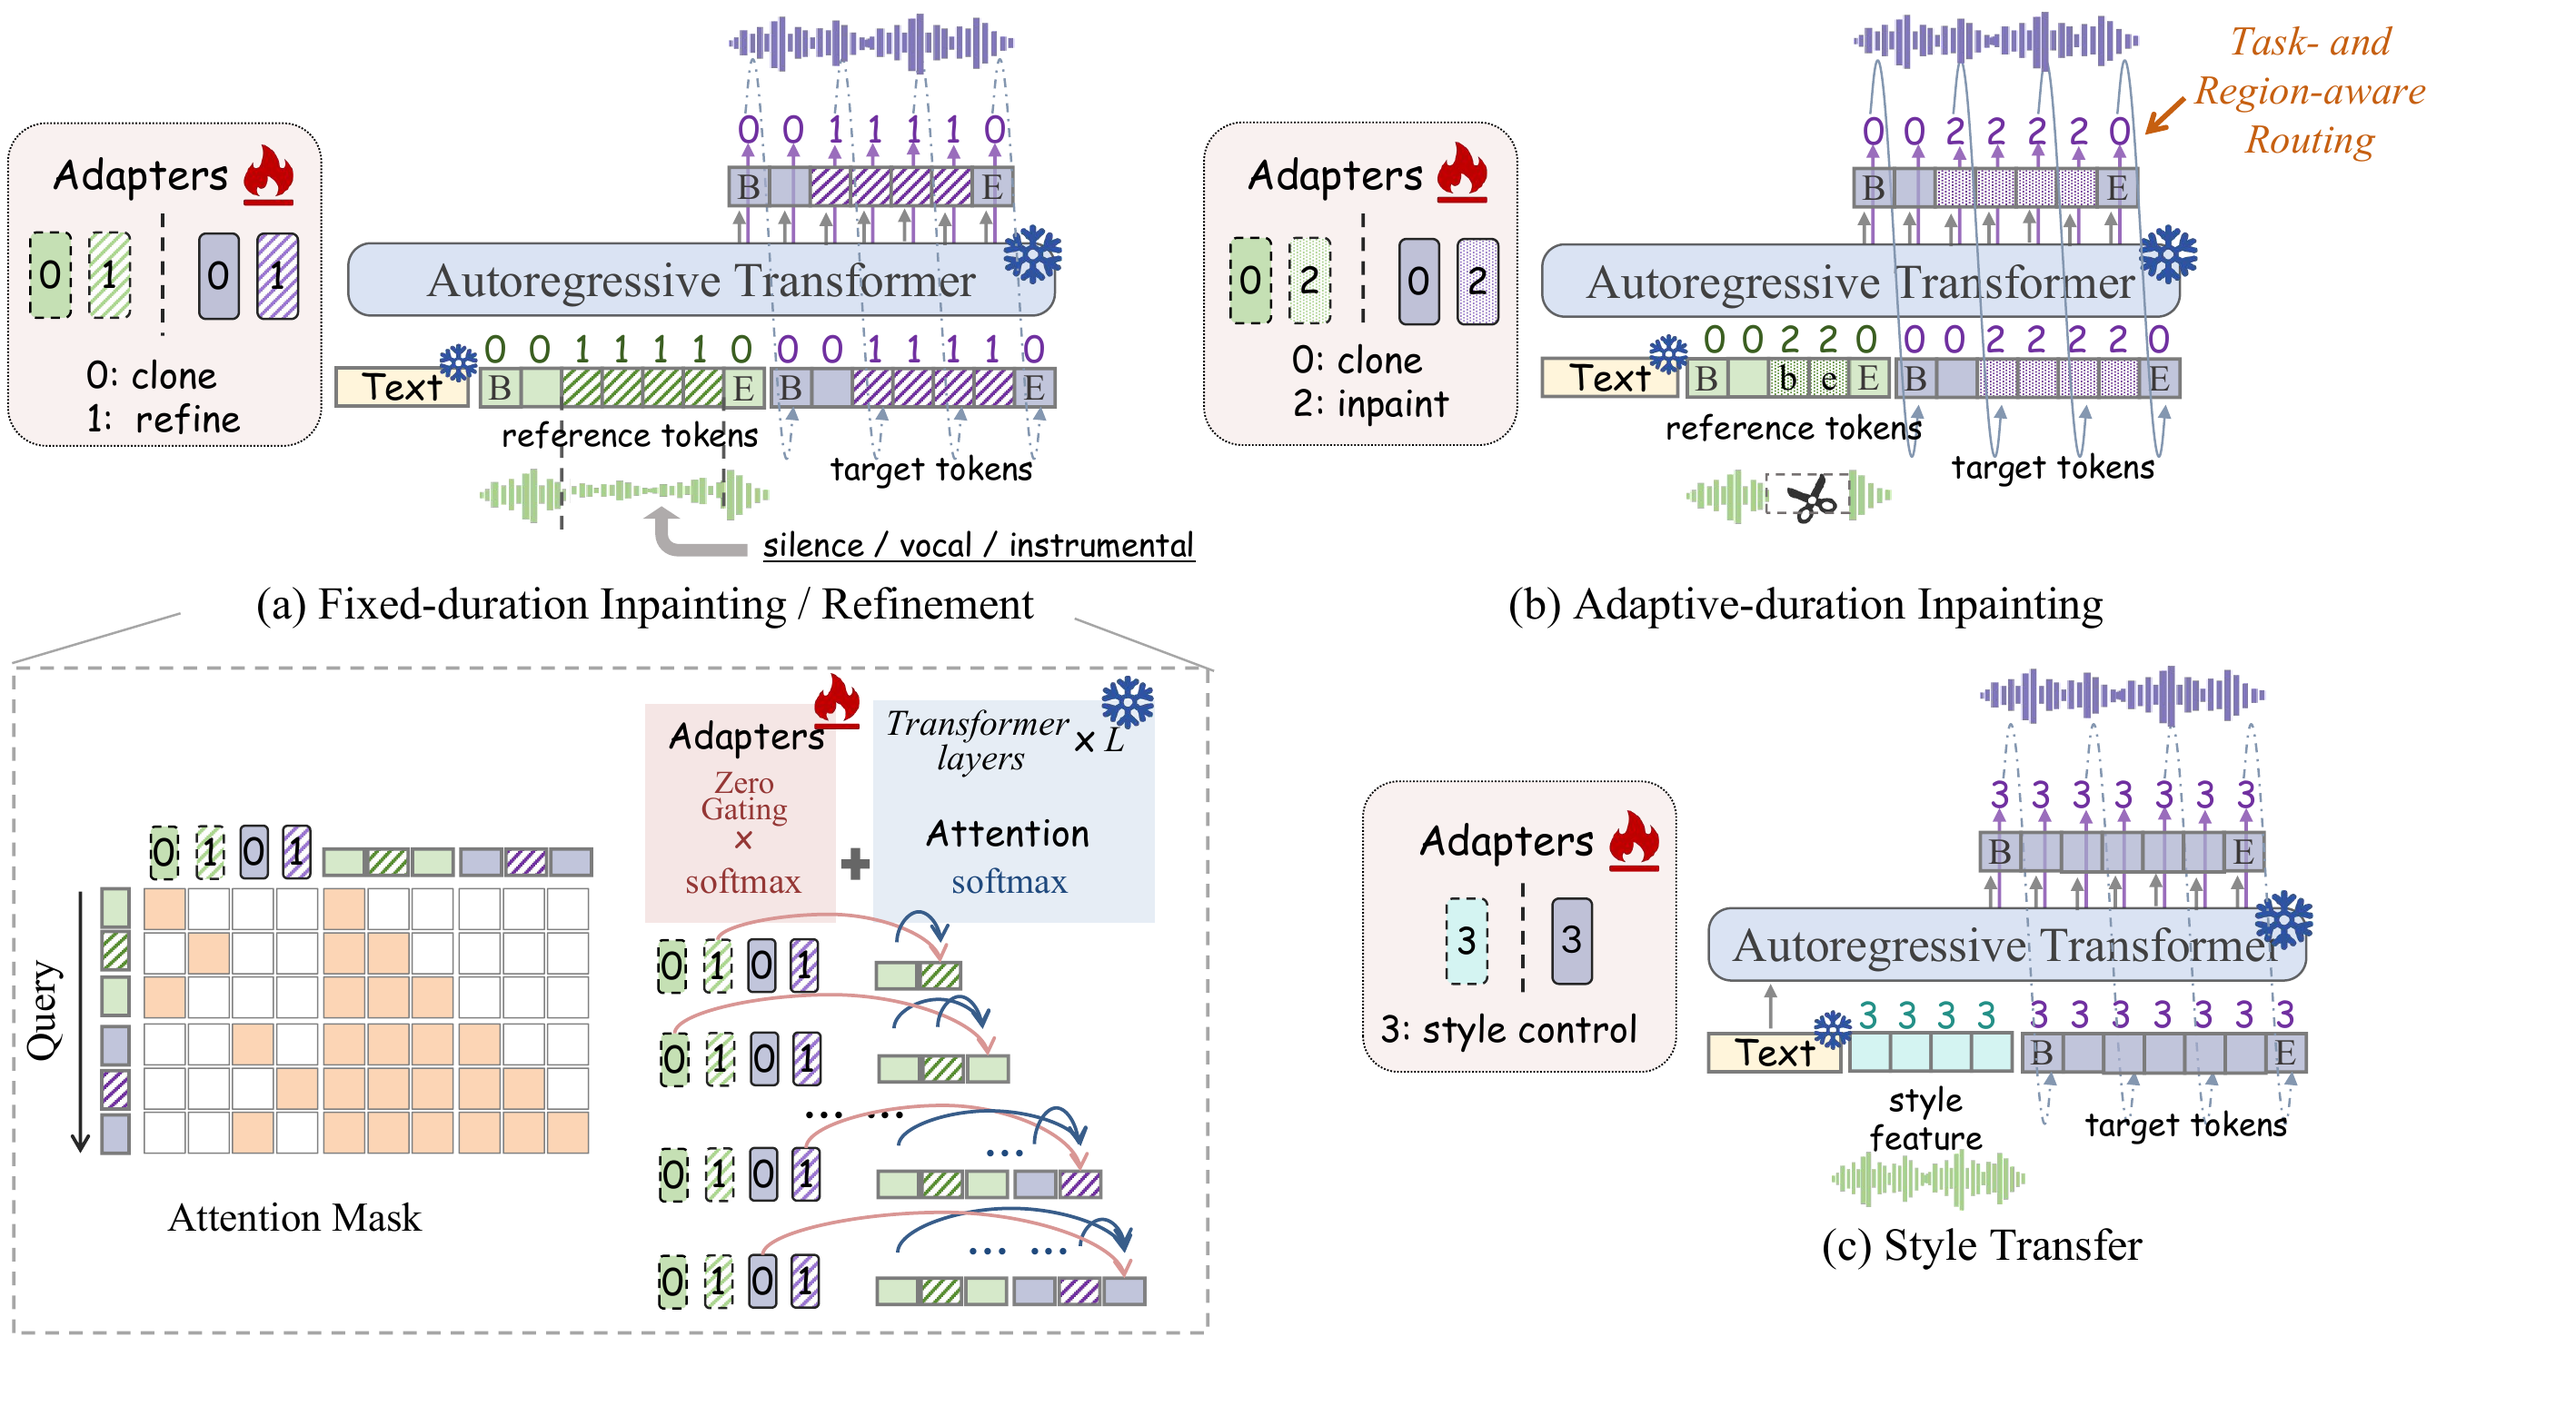
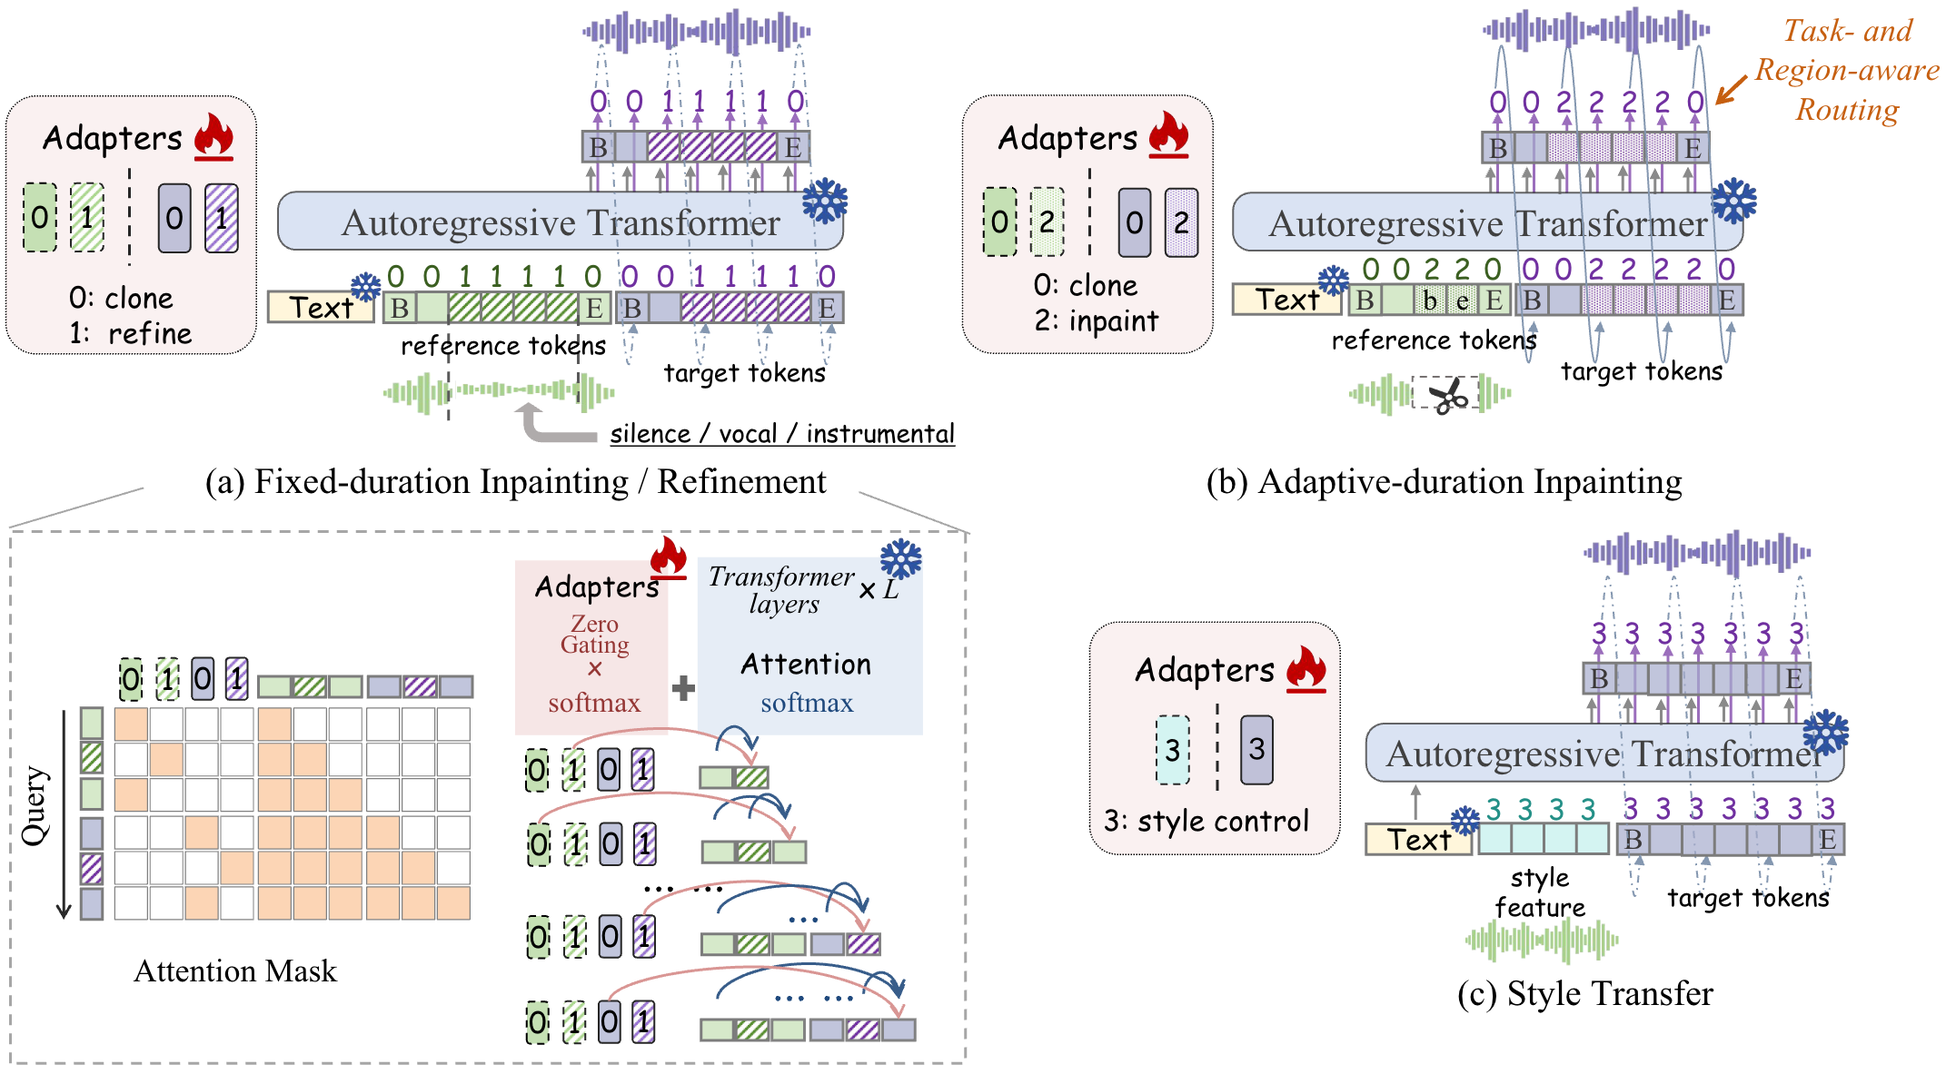
Refine research profile and correct publication images

Changed region(s): [[0.0, 0.0, 0.4979, 0.9738], [0.4668, 0.0, 0.9958, 0.9434], [0.0, 0.4565, 0.0622, 0.4869]]

diff --git a/_pages/about.md b/_pages/about.md
@@ -29,17 +29,18 @@ redirect_from:
 
 Hi👋 nice to meet you!
 
-<br>I am a final-year Ph.D. candidate in the joint Ph.D. program between <a href="https://www.shlab.org.cn/">Shanghai AI Laboratory</a> and <a href="https://www.buaa.edu.cn/">Beihang University</a>, supervised by <a href="http://dahua.site/">Prof. Dahua Lin</a>.
-I am currently a Research Intern on Alibaba's Qwen team. My work focuses on agentic multimodal systems and audio-visual understanding and reasoning, with additional contributions to Qwen-Music.
-Prior to that, I obtained my Bachelor’s degree in 2021 and completed two years of master’s study at Beihang University under the supervision of <a href="https://scholar.google.com/citations?user=QVHvhM4AAAAJ">Prof. Leilei Sun</a>, where my research focused on spatio-temporal data mining and time series analysis.
+<br>I am a final-year Ph.D. candidate in the joint Ph.D. program between <a href="https://www.shlab.org.cn/">Shanghai AI Laboratory</a> and <a href="https://www.buaa.edu.cn/">Beihang University</a>, supervised by <a href="http://dahua.site/">Prof. Dahua Lin</a>. My doctoral research focuses on multimodal foundation models, with an emphasis on audio-visual understanding and generation.
+Before starting my Ph.D., I received my Bachelor’s degree from Beihang University in 2021 and completed two years of master’s study there under the supervision of <a href="https://dbw-buaa.github.io/">Prof. Bowen Du</a>, working on representation learning and forecasting for multivariate time series.
+
+<br><br>I am currently a Research Intern with Alibaba's Qwen Omni team and a core contributor to Video-to-Skill and Qwen-Music. My work spans agentic MLLMs, audio-visual understanding, and audio generation, from learning transferable multimodal skills from human demonstrations and instructional videos to training and post-training large-scale autoregressive music models.
 
 <br><br>My current research interests are:
-<br><b>◆ Agentic Multimodal LLMs: </b><i>multimodal agents, computer-use agents, tool/skill learning, agentic data generation, and evaluation.</i>
-<br><b>◆ Audio-Visual Understanding and Reasoning: </b><i>audio-visual instruction following, spatio-temporal reasoning, audio geo-localization, and robust multimodal evaluation.</i>
-<br><b>◆ Audio Generation: </b><i>text-to-song generation, controllable song generation and editing, and music generation systems.</i>
+<br><b>◆ Agentic MLLMs: </b><i>multimodal agents, computer-use agents, skill learning from demonstrations, agent harnesses and plugins, and scalable rollout data.</i>
+<br><b>◆ Audio-Visual Understanding: </b><i>audio-visual instruction following, deep spatio-temporal reasoning, cross-modal alignment, and reliable evaluation.</i>
+<br><b>◆ Audio Generation: </b><i>large-scale autoregressive music models, audio tokenization, controllable song generation and editing, and post-training.</i>
 
 <br><br>
-<font style="color: #bf0000"><b>I am on the job market and seeking Research Scientist opportunities centered on agentic MLLMs, audio-visual understanding and reasoning, and multimodal agents.</b></font>
+<font style="color: #bf0000"><b>I am on the job market and seeking Research Scientist opportunities in agentic MLLMs, audio-visual understanding, and audio generation.</b></font>
 <br><font style="color: #bf0000"><b>I am always open to research discussions and collaborations.</b></font>
 <br><b>Email:</b>&nbsp; <span style="background: #d6eef8">liuzihan@buaa.edu.cn</span>&emsp;&emsp; <b>WeChat:</b>&nbsp; <span style="background: #d6eef8">ZinniaL19</span>
 </div>
@@ -57,7 +58,7 @@ Prior to that, I obtained my Bachelor’s degree in 2021 and completed two years
   </div>
   <div class="focus-item">
     <b>Audio Generation Systems</b>
-    <span>Prior and ongoing work on song generation and editing, tokenizer and model training, and post-training for Qwen-Music.</span>
+    <span>Developing music generation systems through tokenizer and model training, controllable song generation and editing, and post-training for Qwen-Music.</span>
   </div>
 </div>
 
@@ -106,7 +107,7 @@ Prior to that, I obtained my Bachelor’s degree in 2021 and completed two years
 <span class='anchor' id='audio-generation'></span>
 ## Audio and Music Generation
 
-<div class='paper-box'><div class='paper-box-image'><div><div class="badge">arXiv 2026</div><img src='images/qwen_music_framework.jpg' alt="Qwen-Music inference framework" width="100%"></div></div>
+<div class='paper-box'><div class='paper-box-image'><div><div class="badge">arXiv 2026</div><img src='images/qwen_music_framework.png' alt="Qwen-Music inference framework" width="100%"></div></div>
 <div class='paper-box-text' markdown="1">
 [Qwen-Music Technical Report](https://arxiv.org/abs/2607.11699) ***[arXiv 2026]***
 
@@ -164,7 +165,7 @@ Shuangrui Ding<sup>*</sup>, <b>Zihan Liu<sup>*</sup></b>, Xiaoyi Dong, Pan Zhang
 
 ## Time Series Modeling
 
-<div class='paper-box'><div class='paper-box-image'><div><div class="badge">KBS 2025</div><img src='images/kdd2022_esg.png' alt="Evolving graph structure learning" width="100%"></div></div>
+<div class='paper-box'><div class='paper-box-image'><div><div class="badge">KBS 2025</div><img src='images/kbs2025_egc.jpg' alt="EGC framework with static and evolutionary graph structure learners" width="100%"></div></div>
 <div class='paper-box-text' markdown="1">
 [Evolving Graph Structure Learning for Multivariate Time Series Forecasting](https://scholar.google.com/citations?view_op=view_citation&hl=en&user=iELd-Q0AAAAJ&citation_for_view=iELd-Q0AAAAJ:IjCSPb-OGe4C) ***[Knowledge-Based Systems 2025]***
 
@@ -238,6 +239,6 @@ Xuxiang Ta, <b>Zihan Liu</b>, Xiao Hu, Le Yu, Leilei Sun, Bowen Du
 
 <span class='anchor' id='services'></span>
 # 🖥 Services
-- Conference reviewer for ICLR 2025.
+- **Selected conference reviewing service:** ICLR 2025. [Full reviewing record on OpenReview](https://openreview.net/profile?id=%7EZihan_Liu5).
 
 <!-- # 💬 Invited Talks -->
